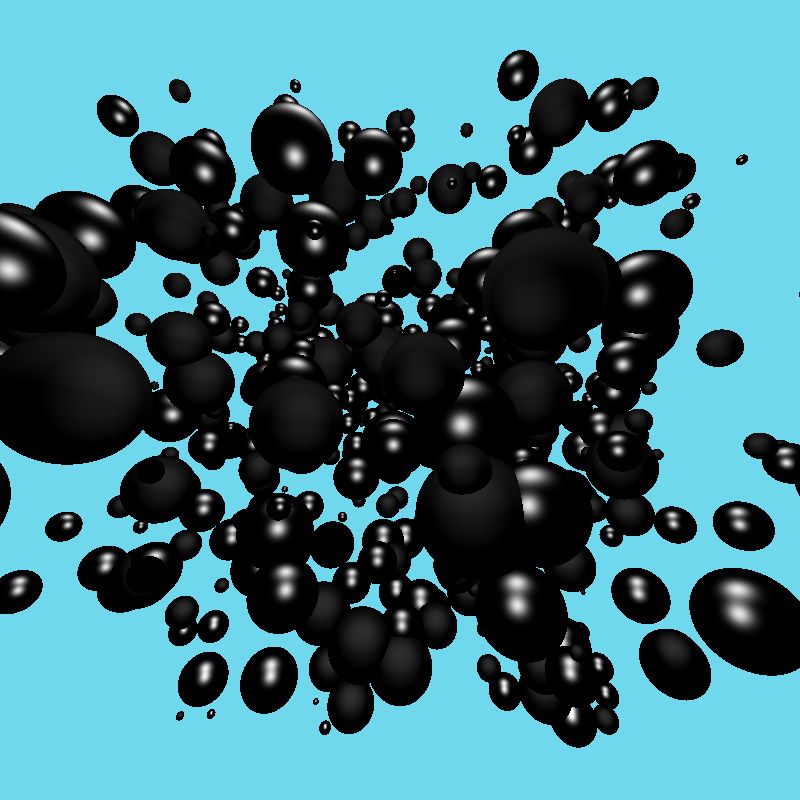
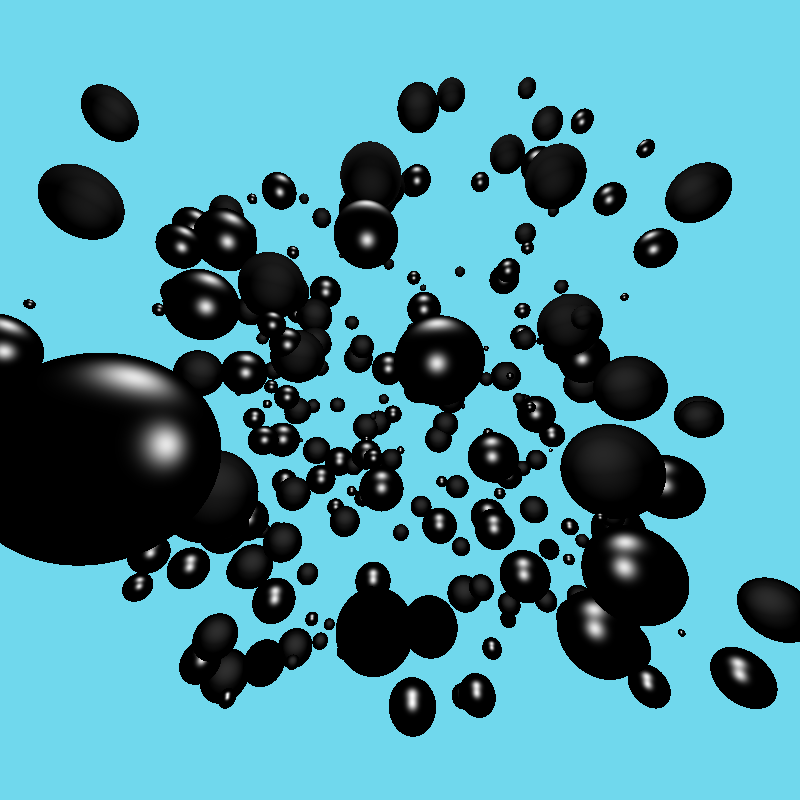
combined into phongShader

diff --git a/src/gui/App.java b/src/gui/App.java
@@ -7,30 +7,36 @@ import javax.swing.JButton;
 import javax.swing.JFileChooser;
 import javax.swing.JFrame;
 import javax.swing.JPanel;
+import javax.swing.JSlider;
 import javax.swing.JTextField;
+import javax.swing.event.ChangeEvent;
+import javax.swing.event.ChangeListener;
 import javax.swing.filechooser.FileFilter;
 import javax.swing.filechooser.FileNameExtensionFilter;
 
 import scene.Scene;
 import shader.AmbientShader;
 import shader.DiffuseShader;
-import shader.LightShader;
+import shader.PhongShader;
 import shader.SpecularShader;
 
-public class App extends JFrame implements ActionListener {
+public class App extends JFrame implements ActionListener, ChangeListener {
     
     JTextField field = new JTextField("simple");
     JButton render = new JButton("Render Scene");
     JButton open = new JButton("Open Scene");
     JButton random = new JButton("Random Scene");
+    JSlider slider = new JSlider(0, 500, 250);
     JFileChooser chooser = new JFileChooser("./scenes/");
     JPanel panel = new JPanel();
     ImagePanel images = new ImagePanel();
 
+    int RND_COUNT = 250;
+
     public App(){
         int btnWidth = 160;
         int btnHeight = 40;
-        open.setBounds(40,40,btnWidth,btnHeight);
+        open.setBounds(40,20,btnWidth,btnHeight);
         open.setFocusable(false);
         open.addActionListener(this);
         
@@ -38,17 +44,26 @@ public class App extends JFrame implements ActionListener {
 
         chooser.setDialogTitle("Scene auswählen");
 
-        field.setBounds(220,40,btnWidth,btnHeight);
+        field.setBounds(220,20,btnWidth,btnHeight);
         field.addActionListener(this);
         add(field);
 
-        render.setBounds(400,40,btnWidth,btnHeight);
+        render.setBounds(400,20,btnWidth,btnHeight);
         render.setFocusable(false);
         render.addActionListener(this);
 
         add(render);
 
-        random.setBounds(580,40,btnWidth,btnHeight);
+        slider.setBounds(580, 70, btnWidth, 60);
+        slider.addChangeListener(this);
+        slider.setPaintTicks(true);
+        slider.setSnapToTicks(true);
+        slider.setMinorTickSpacing(50);
+        slider.setMajorTickSpacing(250);
+        slider.setPaintLabels(true);
+        add(slider);
+
+        random.setBounds(580,20,btnWidth,btnHeight);
         random.addActionListener(this);
         add(random);
 
@@ -72,7 +87,7 @@ public class App extends JFrame implements ActionListener {
             s.makeImage(new AmbientShader());
             s.makeImage(new DiffuseShader());
             s.makeImage(new SpecularShader());
-            s.makeImage(new LightShader());
+            s.makeImage(new PhongShader());
 
             images.getNewImages();
         }else if(e.getSource() == open){
@@ -89,15 +104,22 @@ public class App extends JFrame implements ActionListener {
                 field.setText(s);
             } else System.out.println("Open command cancelled by user.");
         }else if(e.getSource() == random){
-            Scene s = Scene.randomSpheres(500);
+            Scene s = Scene.randomSpheres(RND_COUNT);
 
             s.makeImage(new AmbientShader());
             s.makeImage(new DiffuseShader());
             s.makeImage(new SpecularShader());
-            s.makeImage(new LightShader());
+            s.makeImage(new PhongShader());
 
             images.getNewImages();
         }
         
+    }
+
+    @Override
+    public void stateChanged(ChangeEvent e) {
+        if(e.getSource() == slider){
+            RND_COUNT = slider.getValue();
+        }
     }
 }

diff --git a/src/shader/PhongShader.java b/src/shader/PhongShader.java
@@ -1,0 +1,54 @@
+package shader;
+
+import geometry.Geometry;
+import math.Color;
+import math.Ray;
+import math.Vector;
+import scene.LightSource;
+import scene.Material;
+import scene.Scene;
+
+public class PhongShader extends Shader{
+
+    @Override public Color getColor(Ray ray, Geometry geometry, Scene scene) {
+        // Constants
+        Material m = scene.getMaterials().get(geometry.material());
+        
+        double ks = m.specular();
+        double kd = m.diffuse();
+        double ka = m.ambient();
+        Vector v = ray.hitPoint().sub(ray.origin()).norm();
+        double s = m.shininess();
+
+        Color il = new Color(0, 0, 0);
+        
+        //Colors
+        Color ambient =  m.color().mul(ka);
+        
+        Vector n = geometry.normal(ray.hitPoint());
+
+        for (LightSource ls : scene.getLightSources()) {
+            Vector l = ls.pos().sub(ray.hitPoint()).norm();
+            //diffuse
+            double nl = n.dot(l);
+            //TODO If nl < 0 ?? can you ignore this 
+            il = il.add(ls.color().mul(ls.intensity()).mul(nl));
+            //specular
+            Vector r = l.refl(n).norm();
+            double vr = r.dot(v);
+            if(vr < 0 ) continue;
+            double vrs = Math.pow(vr,s);
+            Color lc = ls.color()
+                .mul(ks)
+                .mul(vrs);
+            il = il.add(lc);
+        }
+
+        if(m.isMetallic()) il.mul(m.color());
+        Color out = m.color()
+            .mul(il)
+            .mul(kd)
+            .add(ambient);
+        return out;
+    }
+}

diff --git a/src/Main.java b/src/Main.java
@@ -34,7 +34,7 @@ class Main {
         // s.toJson("planes");
         //#endregion
         // Scene s = new Scene("./scenes/color.json");
-        // Scene s = Scene.randomSpheres(100);
+        Scene s = Scene.randomSpheres(100);
         
         // #region make Image
         // s.makeImage(new AmbientShader());
@@ -43,14 +43,14 @@ class Main {
 
         // s.makeImage(new SpecularShader());
 
-        // s.makeImage(new LightShader());
+        // s.makeImage(new PhongShader());
         //#endregion
         
-        new App();
+        // new App();
 
         //#region testing speed
-        // for (int i = 0; i < 10; i++)
-        //     s.makeImage(new LightShader(),true);
+        for (int i = 0; i < 10; i++)
+            s.makeImage(new PhongShader(),true);
         //#endregion
     }
 }

diff --git a/src/gui/ImagePanel.java b/src/gui/ImagePanel.java
@@ -19,7 +19,7 @@ public class ImagePanel extends JPanel{
         images[0] = new ImageIcon("./images/AmbientShader.png",  "Ambient Color");
         images[1] = new ImageIcon("./images/DiffuseShader.png",  "Diffuse Color");
         images[2] = new ImageIcon("./images/SpecularShader.png", "Specular Color");
-        images[3] = new ImageIcon("./images/LightShader.png",    "Light Color");
+        images[3] = new ImageIcon("./images/PhongShader.png",    "Light Color");
 
         for (ImageIcon image : images)
             image.setImage(image.getImage().getScaledInstance(400, 400, Image.SCALE_DEFAULT));

diff --git a/src/scene/Scene.java b/src/scene/Scene.java
@@ -85,10 +85,6 @@ public class Scene {
         }
         if(target != null) ray.hit(target,t);
         return t != Double.MAX_VALUE && target != null;
-
-        // for(Geometry geometry : geometries) geometry.intersect(ray);
-
-        // return ray.target() != null;
     }
 
     public void makeImage(Shader shader, String name, boolean timed){
